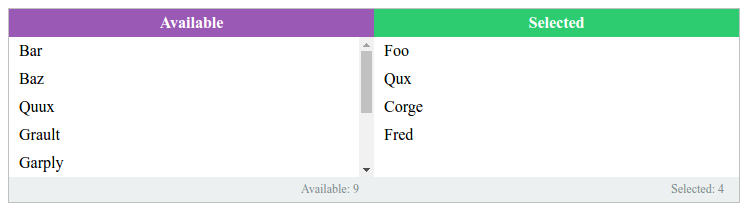
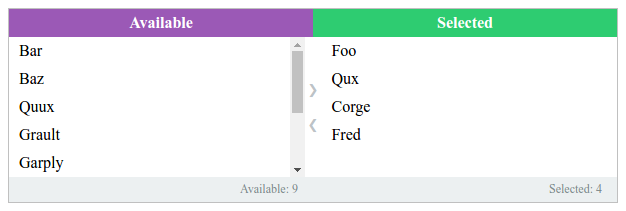
feat(lib): Add controls select/deselect all
Close #4 Add control buttons

diff --git a/index.jsx b/index.jsx
@@ -11,14 +11,16 @@ const MultiselectTwoSides = React.createClass({
 		availableHeader: React.PropTypes.node,
 		availableFooter: React.PropTypes.node,
 		selectedHeader: React.PropTypes.node,
-		selectedFooter: React.PropTypes.node
+		selectedFooter: React.PropTypes.node,
+		showControls: React.PropTypes.bool
 	},
 
 	getDefaultProps() {
 		return {
 			options: [],
 			value: [],
-			disabled: false
+			disabled: false,
+			showControls: false
 		};
 	},
 
@@ -35,6 +37,14 @@ const MultiselectTwoSides = React.createClass({
 		const newValue = value.slice();
 		newValue.splice(value.indexOf(id), 1);
 		onChange(newValue);
+	},
+
+	handleClickSelectAll() {
+		this.props.onChange(this.props.options.map(option => option.id));
+	},
+
+	handleClickDeselectAll() {
+		this.props.onChange([]);
 	},
 
 	filterAvailable() {
@@ -63,7 +73,10 @@ const MultiselectTwoSides = React.createClass({
 			availableHeader,
 			availableFooter,
 			selectedHeader,
-			selectedFooter
+			selectedFooter,
+			showControls,
+			options,
+			value
 		} = this.props;
 
 		return (
@@ -87,6 +100,25 @@ const MultiselectTwoSides = React.createClass({
 							onClick={this.handleClickAvailable}
 							/>
 					</div>
+
+					{showControls ? (
+						<div className="msts__side msts__side_controls">
+							<button
+								className="msts__control msts__control_select-all"
+								onClick={this.handleClickSelectAll}
+								title="Select all"
+								type="button"
+								disabled={options.length === value.length}
+								/>
+							<button
+								className="msts__control msts__control_deselect-all"
+								onClick={this.handleClickDeselectAll}
+								title="Deselect all"
+								type="button"
+								disabled={!value.length}
+								/>
+						</div>
+					) : null}
 
 					<div className="msts__side msts__side_selected">
 						<List

diff --git a/example/style.css b/example/style.css
@@ -6,6 +6,13 @@
 		width: 50%;
 	}
 
+	.msts__side_controls {
+		width: auto;
+		display: flex;
+		flex-direction: column;
+		justify-content: center;
+	}
+
 	.msts__heading {
 		.msts__side {
 			padding: 5px;
@@ -41,10 +48,40 @@
 
 	.msts__list-item {
 		padding: 5px 10px;
+		transition: background-color ease-in 0.1s, color ease-in 0.1s;
 	}
 
 	.msts__list-item:hover {
 		background-color: #2980b9;
 		color: #fff;
+	}
+
+	.msts__control {
+		border: none;
+		background: none;
+		cursor: pointer;
+		padding: 10px 3px;
+		color: #bdc3c7;
+		transition: color ease 0.15s;
+
+		&:hover {
+			color: #95a5a6;
+		}
+
+		&[disabled] {
+			color: #ecf0f1;
+		}
+	}
+
+	.msts__control_select-all {
+		&:after {
+			content: '❯';
+		}
+	}
+
+	.msts__control_deselect-all {
+		&:after {
+			content: '❮';
+		}
 	}
 }

diff --git a/test.js b/test.js
@@ -43,6 +43,24 @@ test('render childrens', t => {
 	t.is(inc.className, 'msts__side msts__side_selected');
 });
 
+test('render controls', t => {
+	const props = {
+		showControls: true
+	};
+	const result = renderIntoDocument(props);
+
+	const dec = getElem(result, 'msts__side_controls');
+	t.is(dec.nodeName, 'DIV');
+	t.is(dec.className, 'msts__side msts__side_controls');
+});
+
+test('dont render controls by default', t => {
+	const props = {};
+	const result = renderIntoDocument(props);
+
+	t.throws(() => getElem(result, 'msts__side_controls'));
+});
+
 // Shallow renderer
 function createComponent(component, props = {}) {
 	const shallowRenderer = ReactTestUtils.createRenderer();

diff --git a/style.css b/style.css
@@ -24,6 +24,9 @@
 .msts__side_selected {
 }
 
+.msts__side_controls {
+}
+
 .msts__list {
 	padding: 0;
 	margin: 0;
@@ -32,4 +35,13 @@
 .msts__list-item {
 	list-style-type: none;
 	cursor: pointer;
+}
+
+.msts__control {
+}
+
+.msts__control_select-all {
+}
+
+.msts__control_deselect-all {
 }

diff --git a/example/app.jsx b/example/app.jsx
@@ -45,6 +45,7 @@ const App = React.createClass({
 				availableFooter={`Available: ${availableCount}`}
 				selectedHeader="Selected"
 				selectedFooter={`Selected: ${selectedCount}`}
+				showControls
 				/>
 		);
 	}

diff --git a/README.md b/README.md
@@ -64,6 +64,7 @@ const App = React.createClass({
                 availableFooter={`Available: ${availableCount}`}
                 selectedHeader="Selected"
                 selectedFooter={`Selected: ${selectedCount}`}
+				showControls
                 />
         );
     }
@@ -84,13 +85,15 @@ MultiselectTwoSides.propTypes = {
     availableHeader: React.PropTypes.node,
     availableFooter: React.PropTypes.node,
     selectedHeader: React.PropTypes.node,
-    selectedFooter: React.PropTypes.node
+    selectedFooter: React.PropTypes.node,
+    showControls: React.PropTypes.bool
 };
 
 MultiselectTwoSides.defaultProps = {
     options: [],
     value: [],
-    disabled: false
+    disabled: false,
+    showControls: false
 };
 ```
 
